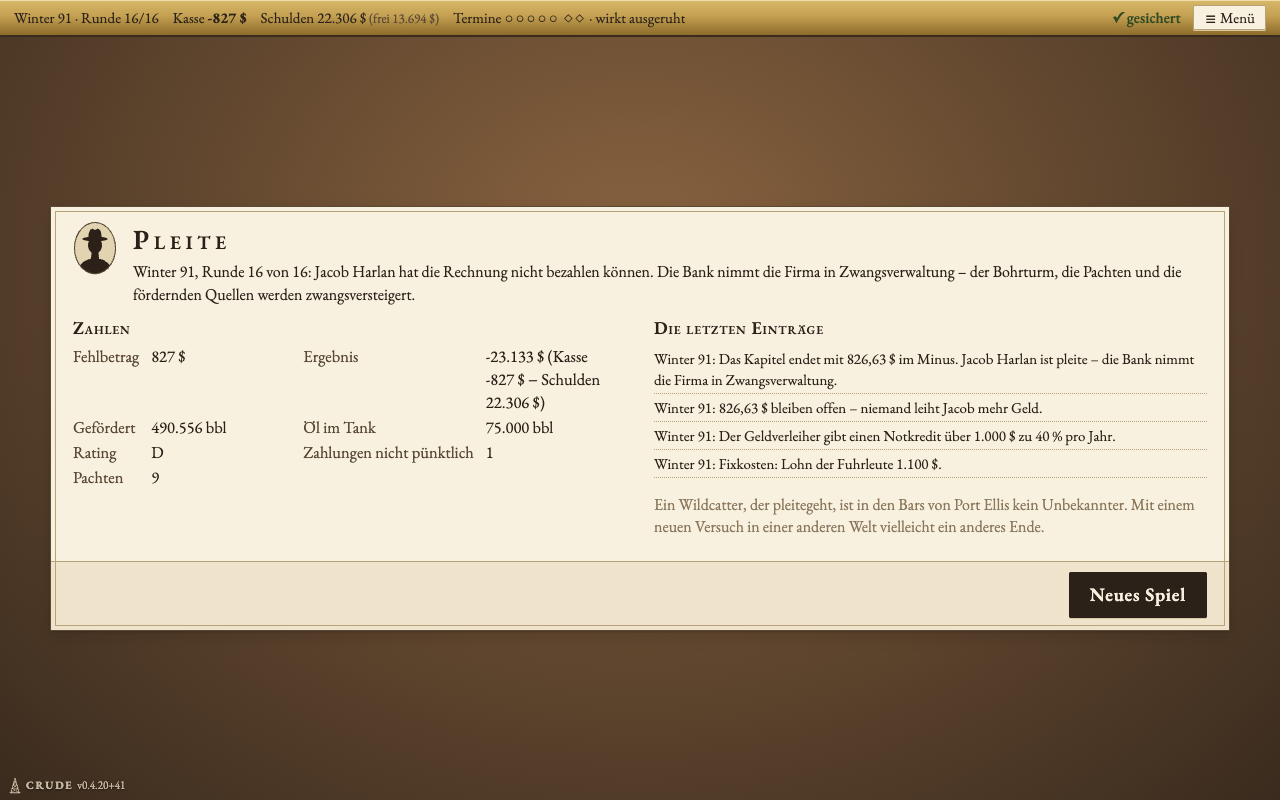
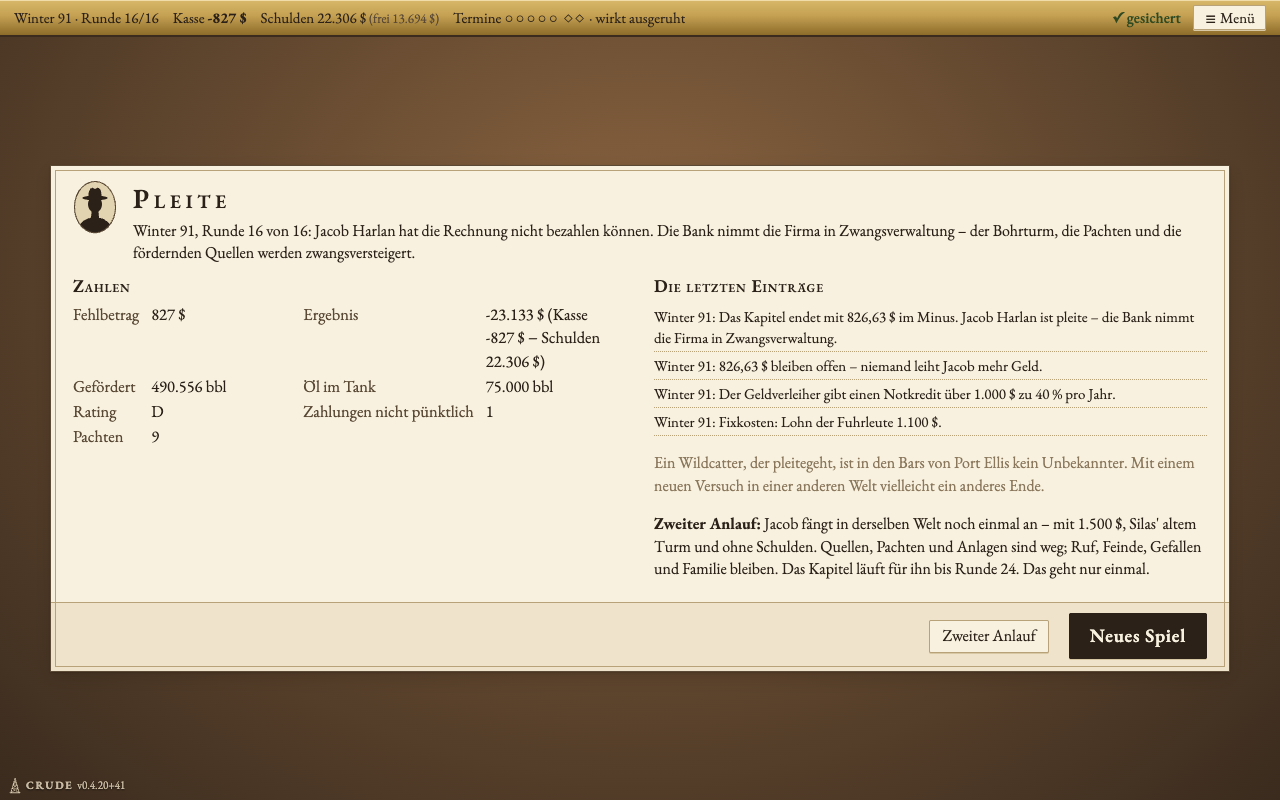
Zweiter Anlauf nach der Pleite (einmal je Spiel)
GDD §14: Auf dem Pleite-Bildschirm kann Jacob einmal je Spiel im selben Kapitel neu anfangen
(src/sim/secondChance.ts, Zahlen secondChance in balance.yaml): Startgeld je Kapitel, Silas' Turm,
keine Schulden. Die Zwangsversteigerung nimmt alles – fördernde Pachten ersteigert Bullard, der Rest
fällt an die Besitzer; Raffinerie, Fernleitungen, Tankstellen, Börsenkonto und Okara-Anteil sind weg.
Welt, Weltmodell, Ruf, Merkzeichen, Rivalen-Groll, Familie, Aktienbuch bleiben. Die Rundenzahl läuft
weiter; bleiben weniger als minRounds Runden, verlängert sich das Kapitel. Merker state.secondChance
(freiwillig im Spielstand). Bots nutzen ihn nicht.

Changed region(s): [[0.0312, 0.1875, 0.9688, 0.8438], [0.2188, 0.375, 0.4688, 0.5938]]

diff --git a/src/sim/secondChance.ts b/src/sim/secondChance.ts
@@ -1,0 +1,118 @@
+// Zweiter Anlauf (GDD §8/§14: „Optional einmal pro Spiel ‚Zweiter Anlauf‘: Neustart als Wildcatter mit Kontakten und
+// Feinden – wie viele echte Ölmänner, die mehrfach pleitegingen“).
+//
+// Nach dem Ende „Pleite“ (nicht im Zeitsprung) darf Jacob einmal je Spiel im selben Kapitel neu anfangen:
+// - Die Zwangsversteigerung nimmt alles: Pachten mit fördernden Quellen ersteigert Bullard (die Quellen fördern für
+//   ihn, je Ranch eine Quelle), ungebohrtes Land und Optionen fallen zurück an die Besitzer; eigene Türme, Tanks,
+//   Fuhrwerke und Pipeline, Raffinerie, Fernleitungen, Tankstellen, Börsenkonto und Okara-Anteil sind weg.
+// - Die Schulden sind mit der Firma untergegangen; Jacob fängt mit secondChance.cash[Kapitel] $ und Silas'
+//   geliehenem Turm an, Rating wie zu Spielbeginn.
+// - Was bleibt: Welt und Weltmodell, Ruf, Merkzeichen (Feinde, Gefallen), Rivalen-Groll, Familie, Aktienbuch,
+//   Personal, Forschung, Hallstead-Kontakte.
+// - Die Rundenzahl läuft weiter (nächste Runde). Bleiben weniger als secondChance.minRounds Runden im Kapitel,
+//   verlängert sich das Kapitel auf genau so viele – sonst wäre das Kapitelziel nicht mehr erreichbar.
+// Merker state.secondChance: einmal genutzt, nie wieder.
+import type { Balance } from './balance';
+import { newBigPipelines } from './bigPipeline';
+import { brandOf } from './brand';
+import { formatDate } from './calendar';
+import { chapterOf } from './chapterOf';
+import { drawEvents, type EventDef } from './events';
+import { newExchange } from './exchange';
+import { checkBirth } from './family';
+import type { GameState } from './game';
+import { newLogistics } from './logistics';
+import { ringPhone } from './plans';
+import { newRefinery } from './refinery';
+import type { RivalWell } from './rival';
+import { startRigs } from './rigs';
+
+export interface SecondChanceBalance {
+  /** Startgeld je Kapitel (Index 0 = Kapitel 1). */
+  cash: number[];
+  /** So viele Runden bleiben mindestens bis zum Kapitelende (sonst wird verlängert). */
+  minRounds: number;
+}
+
+/** Warum es keinen zweiten Anlauf gibt – oder null. */
+export function secondChanceBlocker(state: GameState): string | null {
+  if (state.ending !== 'pleite') return 'Einen zweiten Anlauf gibt es nur nach der Pleite.';
+  if (state.secondChance) return 'Den zweiten Anlauf hat Jacob schon gehabt.';
+  if (state.timeskips.at(-1)?.bankrupt) return 'Im Zeitsprung gibt es keinen zweiten Anlauf.';
+  return null;
+}
+
+export function secondChanceCash(state: Pick<GameState, 'chapter'>, balance: Balance): number {
+  const liste = balance.secondChance.cash;
+  return liste[Math.min(liste.length, chapterOf(state)) - 1];
+}
+
+/** Bis zu welcher Runde das Kapitel nach dem Neuanfang läuft. */
+export function secondChanceEnd(state: Pick<GameState, 'round' | 'totalRounds'>, balance: Balance): number {
+  const naechste = state.round + 1;
+  return Math.max(state.totalRounds, naechste + balance.secondChance.minRounds - 1);
+}
+
+export type SecondChanceResult = { ok: true; state: GameState } | { ok: false; reason: string };
+
+/** Jacob fängt nach der Pleite neu an (siehe oben). catalog: Ereignisse für die neue Runde. */
+export function startSecondChance(input: GameState, balance: Balance, catalog: readonly EventDef[] = []): SecondChanceResult {
+  const blocker = secondChanceBlocker(input);
+  if (blocker) return { ok: false, reason: blocker };
+  const seed = input.seed;
+  // Zwangsversteigerung: Bullard ersteigert die fördernden Pachten, der Rest fällt an die Besitzer zurück.
+  const neueRivalWells: RivalWell[] = [];
+  const leases = input.leases.flatMap((l) => {
+    if (l.holder !== 'jacob') return [l];
+    const found = input.wells.filter((w) => w.parcelId === l.parcelId && w.status === 'found');
+    if (found.length === 0) return [];
+    const rate = Math.round(found.reduce((s, w) => s + (w.production?.lastRate || w.production?.initialRate || 0), 0));
+    neueRivalWells.push({ parcelId: l.parcelId, startRound: Math.min(...found.map((w) => w.startRound)), roundsLeft: 0, status: 'found', rate, royalty: l.royalty });
+    return [{ ...l, holder: 'bullard' as const }];
+  });
+  const versteigert = new Set(neueRivalWells.map((w) => w.parcelId));
+  const okara = input.ventures?.okara;
+  const totalRounds = secondChanceEnd(input, balance);
+  const cash = secondChanceCash(input, balance);
+  const date = formatDate(input);
+  const verlaengert = totalRounds > input.totalRounds ? ` Das Kapitel läuft für ihn bis Runde ${totalRounds}.` : '';
+  let s: GameState = {
+    ...input,
+    finished: false,
+    ending: null,
+    cash,
+    loans: [],
+    rating: balance.credit.startRating,
+    missedPayments: 0,
+    bankruptcyDeadline: 0,
+    leases,
+    options: input.options.filter((o) => o.holder !== 'jacob'),
+    wells: [],
+    rigs: startRigs(balance),
+    oilStock: 0,
+    royaltyOil: 0,
+    logistics: newLogistics(seed),
+    rival: { ...input.rival, wells: [...input.rival.wells.filter((w) => !versteigert.has(w.parcelId)), ...neueRivalWells] },
+    ventures: okara?.holder === 'jacob' ? { okara: { ...okara, holder: 'bullard' } } : okara ? { okara } : undefined,
+    refinery: input.refinery ? newRefinery(seed, balance) : undefined,
+    bigPipelines: input.bigPipelines ? newBigPipelines(seed) : undefined,
+    exchange: input.exchange ? newExchange(seed, input.round, balance.exchange) : undefined,
+    deals: undefined,
+    hotOil: undefined,
+    feldzug: undefined,
+    totalRounds,
+    secondChance: { round: input.round + 1 },
+    log: [
+      ...input.log,
+      `${date}: Die Bank versteigert, was von Harlan Oil übrig ist${versteigert.size > 0 ? ` – Bullard ersteigert ${versteigert.size === 1 ? 'eine fördernde Pacht' : `${versteigert.size} fördernde Pachten`}` : ''}.`,
+      `${date}: Jacob fängt noch einmal an: ${cash.toLocaleString('de-DE')} $, Silas' alter Turm und ein Name, den in Salt Hill jeder kennt.${verlaengert}`,
+    ],
+  };
+  const { insolvency: _weg, ...ohneFrist } = s;
+  s = ohneFrist;
+  // Tankstellen gehen mit der Firma unter: die Marke beginnt neu (Bekanntheit bleibt bei den Leuten nicht hängen).
+  if (input.brand) s = { ...s, brand: brandOf({ seed, brand: undefined }, balance) };
+  // Die nächste Runde beginnt – wie am Ende von endRound.
+  const next: GameState = { ...s, round: s.round + 1, taxBase: { cash, debt: 0 }, log: [...s.log, `${formatDate({ ...s, round: s.round + 1 })}: Eine neue Runde beginnt.`] };
+  return { ok: true, state: ringPhone(drawEvents(checkBirth(next, balance), balance, catalog), balance, catalog) };
+}

diff --git a/src/sim/secondChance.test.ts b/src/sim/secondChance.test.ts
@@ -1,0 +1,128 @@
+import { describe, expect, it } from 'vitest';
+import { checkBankruptcy } from './credit';
+import type { Well } from './drilling';
+import { endRound, newGame, type GameState } from './game';
+import { leaseOf } from './lease';
+import { deserializeGame, serializeGame } from './save';
+import { secondChanceBlocker, secondChanceCash, secondChanceEnd, startSecondChance } from './secondChance';
+import { loadBalance } from './testBalance';
+import { loadEvents } from './testEvents';
+import { k3Game } from './testKapitel3';
+
+const balance = loadBalance();
+const catalog = loadEvents();
+
+function quelle(parcelId: string, rate: number): Well {
+  return { id: `${parcelId}#1`, parcelId, stage: 1, status: 'found', roundsLeft: 0, spent: 0, oilStage: 1, result: 'small', production: { initialRate: rate, roundsProduced: 3, lastRate: rate, total: rate * 3 }, startRound: 1, pump: true };
+}
+
+/** Pleite in Runde round: eine fördernde und eine ungebohrte Pacht, Schulden, ein eigener Turm, Merkzeichen. */
+function pleite(round = 6, seed = 'anlauf'): GameState {
+  const g = newGame(seed, balance);
+  const [a, b] = g.parcels.filter((p) => !p.discovery && !p.sure && !g.options.some((o) => o.parcelId === p.id));
+  const s: GameState = {
+    ...g,
+    round,
+    cash: -4000,
+    loans: [{ id: 1, source: 'bank', principal: 9000, rate: 0.1, takenRound: 1, collateral: null }],
+    leases: [
+      ...g.leases,
+      { parcelId: a.id, holder: 'jacob', bonus: 800, royalty: 0.15, startRound: 1, expiresAfterRound: 99, drilled: true },
+      { parcelId: b.id, holder: 'jacob', bonus: 600, royalty: 0.15, startRound: 1, expiresAfterRound: 99, drilled: false },
+    ],
+    wells: [quelle(a.id, 2500)],
+    rigs: [...g.rigs, { id: 'eigen-1', kind: 'owned', readyRound: 1, steam: true, rods: false }],
+    oilStock: 3000,
+    bankruptcyDeadline: round,
+    insolvency: { since: round - 2, ratingBefore: 'C' },
+    events: { ...g.events, marks: { ...g.events.marks, bullard_verraten: 2 } },
+  };
+  const ende = checkBankruptcy(s, balance);
+  expect(ende.ending).toBe('pleite');
+  return ende;
+}
+
+describe('Zweiter Anlauf', () => {
+  it('nur nach der Pleite und nur einmal je Spiel', () => {
+    expect(secondChanceBlocker(newGame('x', balance))).toMatch(/nur nach der Pleite/);
+    const s = pleite();
+    expect(secondChanceBlocker(s)).toBeNull();
+    const r = startSecondChance(s, balance, catalog);
+    if (!r.ok) throw new Error(r.reason);
+    const wieder = checkBankruptcy({ ...r.state, cash: -10, bankruptcyDeadline: r.state.round }, balance);
+    expect(wieder.ending).toBe('pleite');
+    expect(secondChanceBlocker(wieder)).toMatch(/schon gehabt/);
+    expect(startSecondChance(wieder, balance).ok).toBe(false);
+  });
+
+  it('neu als Wildcatter: wenig Geld, keine Schulden, Quellen, Pachten, eigene Türme – nächste Runde', () => {
+    const s = pleite();
+    const r = startSecondChance(s, balance, catalog);
+    if (!r.ok) throw new Error(r.reason);
+    const n = r.state;
+    expect(n.finished).toBe(false);
+    expect(n.ending).toBeNull();
+    expect(n.cash).toBe(balance.secondChance.cash[0]);
+    expect(secondChanceCash(s, balance)).toBe(balance.secondChance.cash[0]);
+    expect(n.loans).toEqual([]);
+    expect(n.wells).toEqual([]);
+    expect(n.leases.filter((l) => l.holder === 'jacob')).toEqual([]);
+    expect(n.options.filter((o) => o.holder === 'jacob')).toEqual([]);
+    expect(n.rigs.every((rig) => rig.kind !== 'owned')).toBe(true);
+    expect(n.rigs.length).toBeGreaterThan(0);
+    expect(n.oilStock).toBe(0);
+    expect(n.bankruptcyDeadline).toBe(0);
+    expect('insolvency' in n).toBe(false);
+    expect(n.rating).toBe(balance.credit.startRating);
+    expect(n.round).toBe(s.round + 1);
+    expect(n.secondChance).toEqual({ round: s.round + 1 });
+  });
+
+  it('Bullard ersteigert die fördernde Pacht, ungebohrtes Land fällt zurück; Welt, Ruf, Feinde, Familie bleiben', () => {
+    const s = pleite();
+    const r = startSecondChance(s, balance, catalog);
+    if (!r.ok) throw new Error(r.reason);
+    const [a, b] = s.leases.filter((l) => l.holder === 'jacob').map((l) => l.parcelId);
+    expect(leaseOf(r.state, a)!.holder).toBe('bullard');
+    expect(r.state.rival.wells.find((w) => w.parcelId === a)).toMatchObject({ status: 'found', rate: 2500 });
+    expect(leaseOf(r.state, b)).toBeUndefined();
+    expect(r.state.seed).toBe(s.seed);
+    expect(r.state.worldModel).toEqual(s.worldModel);
+    expect(r.state.events.marks.bullard_verraten).toBe(2);
+    expect(r.state.family.ruth).toBe(s.family.ruth);
+    expect(r.state.wildcatterStanding).toBe(s.wildcatterStanding);
+  });
+
+  it('Rundenzahl läuft weiter; zu wenig Runden übrig – das Kapitel läuft bis minRounds Runden weiter', () => {
+    const frueh = pleite(4);
+    expect(secondChanceEnd(frueh, balance)).toBe(frueh.totalRounds);
+    const spaet = pleite(frueh.totalRounds);
+    const r = startSecondChance(spaet, balance, catalog);
+    if (!r.ok) throw new Error(r.reason);
+    expect(r.state.totalRounds).toBe(spaet.totalRounds + balance.secondChance.minRounds);
+    expect(r.state.totalRounds - r.state.round + 1).toBe(balance.secondChance.minRounds);
+    // Das Spiel läuft danach normal weiter.
+    const weiter = endRound(r.state, balance, catalog);
+    expect(weiter.round).toBe(r.state.round + 1);
+  });
+
+  it('der Merker übersteht Speichern und Laden', () => {
+    const r = startSecondChance(pleite(), balance, catalog);
+    if (!r.ok) throw new Error(r.reason);
+    const geladen = deserializeGame(serializeGame(r.state, 'test'));
+    if (!geladen.ok) throw new Error(geladen.reason);
+    expect(geladen.state.secondChance).toEqual(r.state.secondChance);
+  });
+
+  it('Kapitel 3: Startgeld des Kapitels, Raffinerie und Tankstellen sind weg, das Aktienbuch bleibt', () => {
+    const k3 = k3Game('anlauf-k3', balance);
+    const s = checkBankruptcy({ ...k3, cash: -1000, bankruptcyDeadline: k3.round }, balance);
+    expect(s.ending).toBe('pleite');
+    const r = startSecondChance(s, balance, catalog);
+    if (!r.ok) throw new Error(r.reason);
+    expect(r.state.cash).toBe(balance.secondChance.cash[2]);
+    if (k3.refinery) expect(r.state.refinery!.level).toBe(0);
+    if (k3.brand) expect(Object.values(r.state.brand!.regions).every((x) => x.stations === 0)).toBe(true);
+    expect(r.state.stocks).toEqual(s.stocks);
+  });
+});

diff --git a/src/ui/GameOverScreen.tsx b/src/ui/GameOverScreen.tsx
@@ -5,12 +5,18 @@ import { chapterRound, chapterRounds } from '../sim/timeskip';
 import { useEffect, useRef } from 'react';
 import { debt } from '../sim/credit';
 import { formatDate, type GameState } from '../sim/game';
+import { secondChanceBlocker, secondChanceCash, secondChanceEnd } from '../sim/secondChance';
+import { balance } from './balance';
+import { ConfirmButton } from './ConfirmButton';
 import { FeedbackLink } from './FeedbackLink';
 import { barrels, money } from './format';
 import { Silhouette } from './Silhouette';
 
 
-export function GameOverScreen({ game, onRestart }: { game: GameState; onRestart: () => void }) {
+export function GameOverScreen({ game, onRestart, onSecondChance }: { game: GameState; onRestart: () => void; onSecondChance?: () => void }) {
+  // Zweiter Anlauf (GDD §14): einmal je Spiel, Regeln in src/sim/secondChance.ts.
+  const anlauf = onSecondChance && secondChanceBlocker(game) === null;
+  const anlaufEnde = secondChanceEnd(game, balance);
   const schuld = debt(game);
   // Pleite im Zeitsprung (4.5): Der Sprung hat in diesem Jahr geendet, nicht in einer Kapitelrunde.
   const imSprung = game.timeskips[game.timeskips.length - 1]?.bankrupt === true;
@@ -71,11 +77,27 @@ export function GameOverScreen({ game, onRestart }: { game: GameState; onRestart
               Ein Wildcatter, der pleitegeht, ist in den Bars von Port Ellis kein Unbekannter. Mit einem neuen Versuch in einer anderen Welt
               vielleicht ein anderes Ende.
             </p>
+            {anlauf && (
+              <p className="zweiter-anlauf">
+                <strong>Zweiter Anlauf:</strong> Jacob fängt in derselben Welt noch einmal an – mit {money(secondChanceCash(game, balance))}, Silas'
+                altem Turm und ohne Schulden. Quellen, Pachten und Anlagen sind weg; Ruf, Feinde, Gefallen und Familie bleiben.
+                {anlaufEnde > game.totalRounds ? ` Das Kapitel läuft für ihn bis Runde ${anlaufEnde - (game.chapterStart ?? 1) + 1}.` : ''} Das geht nur einmal.
+              </p>
+            )}
           </div>
         </div>
       </div>
       <div className="bogen-fuss">
         <FeedbackLink className="feedback gross" />
+        {anlauf && (
+          <ConfirmButton
+            question="Noch einmal von vorn anfangen – in dieser Welt, als Wildcatter? Den zweiten Anlauf gibt es nur einmal."
+            confirmLabel="Ja, zweiter Anlauf"
+            onConfirm={onSecondChance!}
+          >
+            Zweiter Anlauf
+          </ConfirmButton>
+        )}
         <button className="primary" onClick={onRestart}>
           Neues Spiel
         </button>

diff --git a/src/sim/balance.ts b/src/sim/balance.ts
@@ -5,6 +5,7 @@
 import type { BuyoutBalance } from './buyout';
 import type { SaleBalance } from './sale';
 import type { InsolvencyBalance } from './insolvency';
+import type { SecondChanceBalance } from './secondChance';
 import { parseStocksBalance, type StocksBalance } from './stocksBalance'; // 4.8 Andockpunkt
 import { parseDiplomacy, type DiplomacyBalance } from './diplomacyBalance'; // 4.10 Andockpunkt
 // 4.15 Andockpunkt: Börse und Kauf auf Kredit.
@@ -1081,6 +1082,8 @@ export interface Balance {
   sale: SaleBalance;
   /** Pleitefrist mit Auswegen (src/sim/insolvency.ts): Umschuldung und Rettung durch Mr. Vale. */
   insolvency: InsolvencyBalance;
+  /** Zweiter Anlauf nach der Pleite (src/sim/secondChance.ts). */
+  secondChance: SecondChanceBalance;
   /** 0.4.20+8: Cranes Feldzug in Kapitel 3 (src/sim/feldzug.ts). */
   feldzug: FeldzugBalance;
   /** 4.12: Systemwirkungen der Ereignisse (src/sim/eventSystems.ts). */
@@ -2772,6 +2775,10 @@ export function parseBalance(raw: unknown): Balance {
         repay: num(raw, 'insolvency.rescue.repay'),
         rate: share(raw, 'insolvency.rescue.rate'),
       },
+    },
+    secondChance: {
+      cash: list(raw, 'secondChance.cash').map((_, i) => num(raw, `secondChance.cash.${i}`)),
+      minRounds: positiveInt(raw, 'secondChance.minRounds'),
     },
     feldzug: parseFeldzugBalance(raw), // 0.4.20+8
     eventSystems: parseEventSystemsBalance(raw), // 4.12

diff --git a/src/ui/App.tsx b/src/ui/App.tsx
@@ -9,6 +9,7 @@
 // Ab 0.4.5: Zeitsprung nach Kapitel 1 – Brief an den Verwalter, Weichen-Telegramme,
 // Chronik „Die Jahre dazwischen“, dann Kapitel 2 (Platzhalter) am Schreibtisch.
 
+import { startSecondChance } from '../sim/secondChance';
 import { useEffect, useMemo, useReducer, useRef, useState } from 'react';
 import { agendaView } from '../sim/agenda';
 import { decideIpo } from '../sim/chapter';
@@ -569,7 +570,15 @@ export function App() {
             ) : brief && game.ending === 'kapitel' ? (
               <DirectivesLetter game={game} onSend={sprungStarten} onBack={() => setBrief(false)} />
             ) : game.ending === 'pleite' ? (
-              <GameOverScreen game={game} onRestart={neuesSpiel} />
+              <GameOverScreen
+                game={game}
+                onRestart={neuesSpiel}
+                onSecondChance={() => {
+                  // Zweiter Anlauf (secondChance.ts): einmal je Spiel nach der Pleite im selben Kapitel neu anfangen.
+                  const r = startSecondChance(game, balance, events);
+                  if (r.ok) setGame(r.state);
+                }}
+              />
             ) : (
               <ChapterEndScreen
                 game={game}

diff --git a/src/sim/save.ts b/src/sim/save.ts
@@ -242,6 +242,8 @@ export function validateState(value: unknown): LoadResult {
   if (value.buyouts !== undefined && (!istObjekt(value.buyouts) || !Object.values(value.buyouts).every(istZahl))) return { ok: false, reason: UNVOLLSTAENDIG };
   // Pleitefrist mit Auswegen (insolvency.ts): freiwillig, wenn da: Beginn und Rating vor der Krise.
   if (value.insolvency !== undefined && (!istObjekt(value.insolvency) || !istZahl(value.insolvency.since) || !['A', 'B', 'C', 'D'].includes(value.insolvency.ratingBefore as string))) return { ok: false, reason: UNVOLLSTAENDIG };
+  // Zweiter Anlauf (secondChance.ts): freiwillig, wenn da: Runde des Neuanfangs.
+  if (value.secondChance !== undefined && (!istObjekt(value.secondChance) || !istZahl(value.secondChance.round))) return { ok: false, reason: UNVOLLSTAENDIG };
   // 0.4.20+31: Deals im Adressbuch.
   if (value.deals !== undefined) {
     const d = value.deals;

diff --git a/src/sim/game.ts b/src/sim/game.ts
@@ -193,6 +193,8 @@ export interface GameState {
   buyouts?: Record<string, number>;
   /** Pleitefrist (insolvency.ts): Beginn und Rating vor der Krise, schon umgeschuldet. Fehlt = keine Frist (bzw. alter Stand: Rating von jetzt). */
   insolvency?: InsolvencyState;
+  /** Zweiter Anlauf nach der Pleite (secondChance.ts): erste Runde des Neuanfangs. Fehlt = noch nicht genutzt. */
+  secondChance?: { round: number };
   /** 0.4.20+8: Cranes Feldzug in Kapitel 3 (src/sim/feldzug.ts) – fehlt, bis die Marke gegründet ist. */
   feldzug?: FeldzugState;
   /** 0.4.20+18: Förderquoten (Gesetz production_quota) – true = Jacob fördert voll, „heißes Öl“ (lawEffects.ts). */
